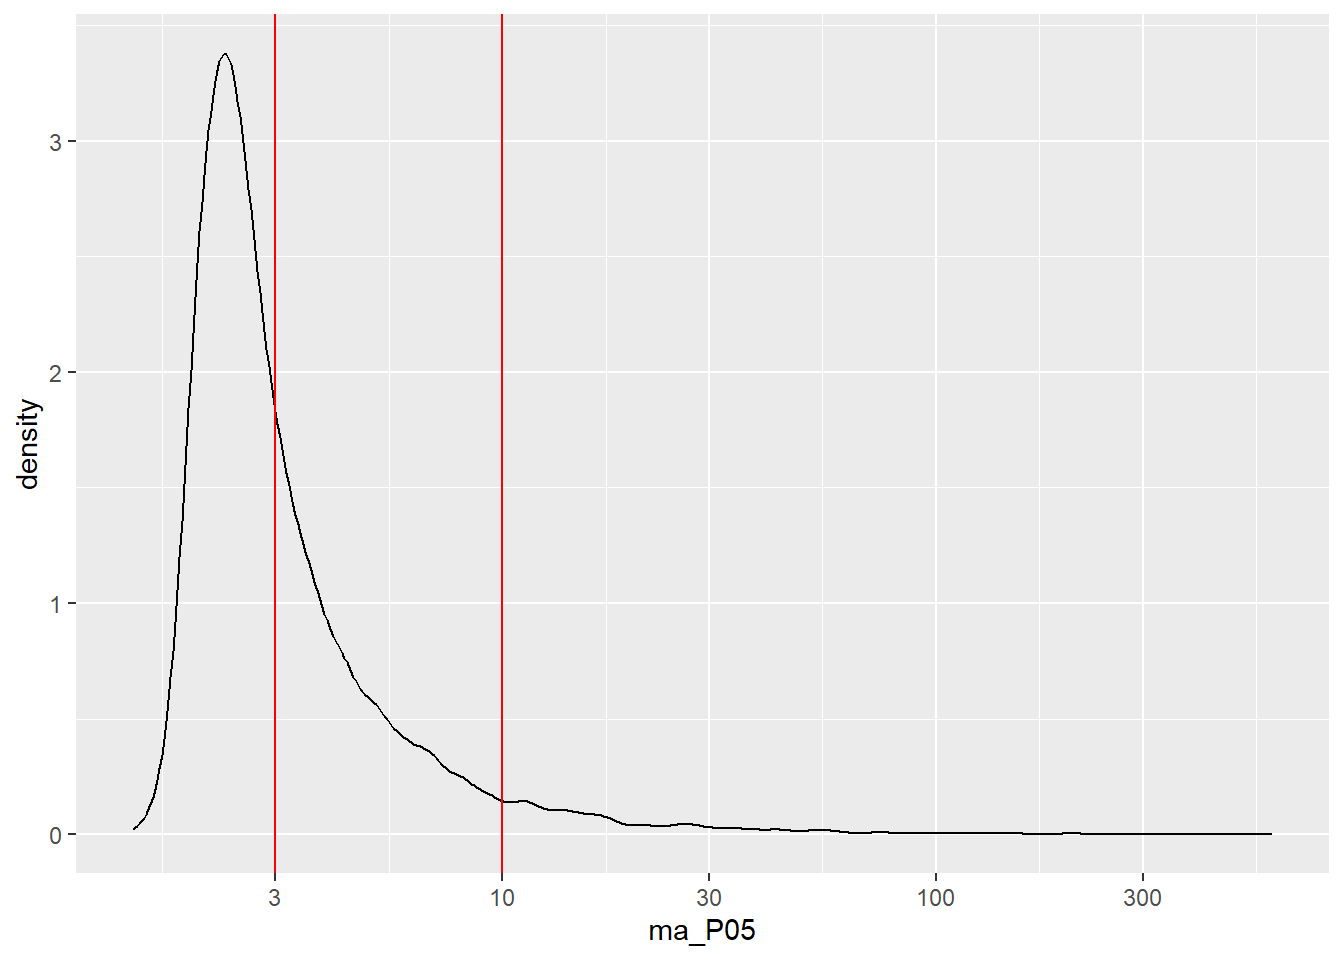
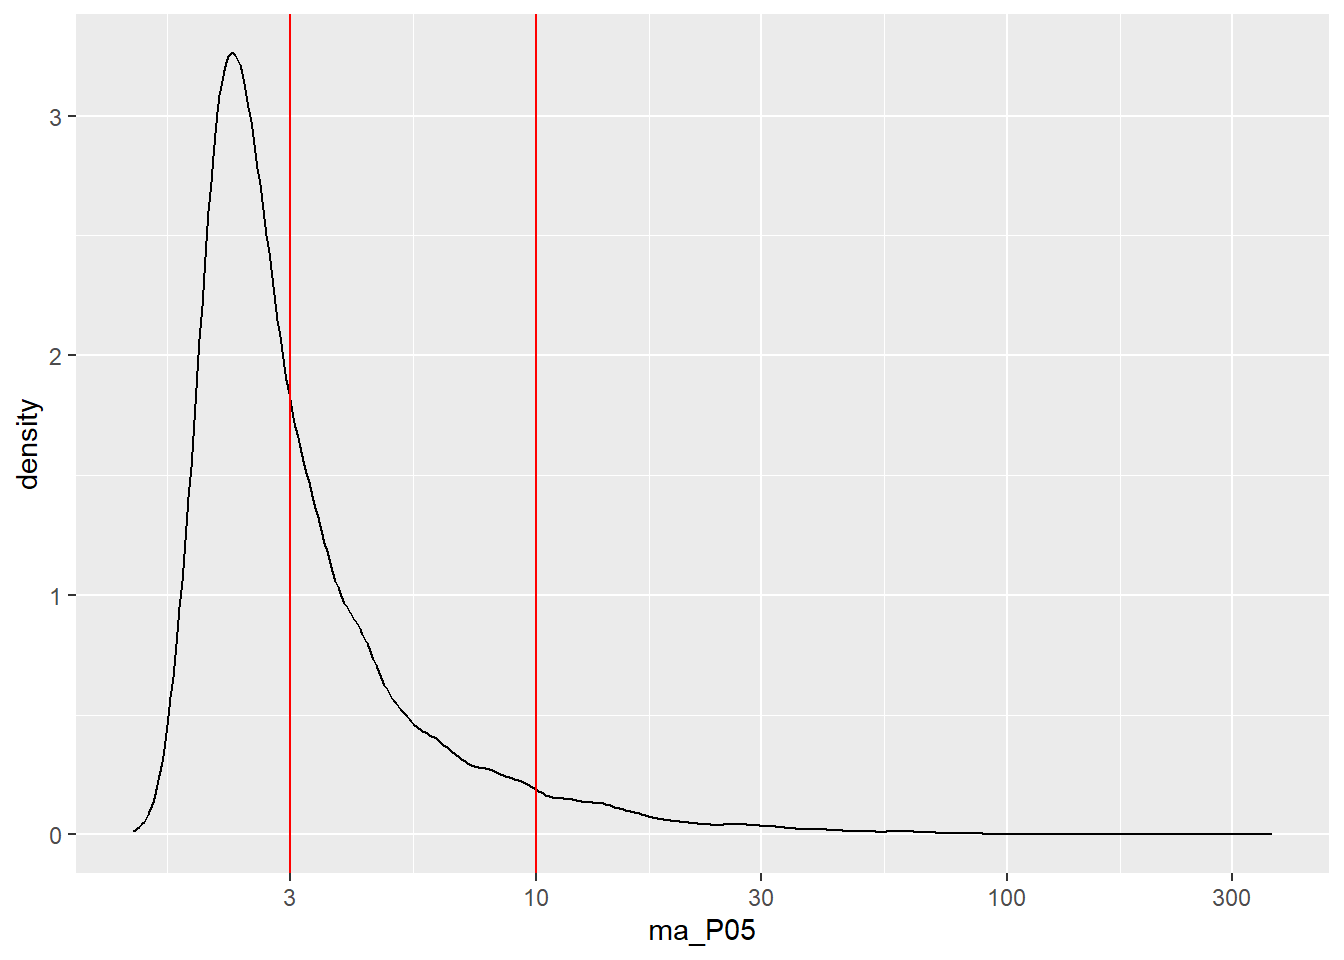
revised assessment question

diff --git a/docs/pages/report_template.html b/docs/pages/report_template.html
@@ -7,7 +7,7 @@
 <meta name="viewport" content="width=device-width, initial-scale=1.0, user-scalable=yes">
 
 <meta name="author" content="your name">
-<meta name="dcterms.date" content="2023-10-17">
+<meta name="dcterms.date" content="2023-10-18">
 
 <title>MVEN10-lectures - Report template</title>
 <style>
@@ -204,7 +204,7 @@ ul.task-list li input[type="checkbox"] {
     <div>
     <div class="quarto-title-meta-heading">Published</div>
     <div class="quarto-title-meta-contents">
-      <p class="date">October 17, 2023</p>
+      <p class="date">October 18, 2023</p>
     </div>
   </div>
   
@@ -223,7 +223,7 @@ ul.task-list li input[type="checkbox"] {
 <section id="introduction" class="level2">
 <h2 class="anchored" data-anchor-id="introduction">Introduction</h2>
 <p>Describe the context and background of the original assessment and the assessment questions.</p>
-<p>Add a section why this is a relevant topic today and introduce the additional assessment question presented in the “At the end”-paragraphs for each project.</p>
+<p>Add a section why this is a relevant topic today and introduce the additional <del>assessment question</del> <strong>task</strong> presented in the “At the end”-paragraphs for each project.</p>
 </section>
 <section id="data-and-methodology" class="level2">
 <h2 class="anchored" data-anchor-id="data-and-methodology">Data and methodology</h2>

diff --git a/docs/pages/Course introduction.html b/docs/pages/Course introduction.html
@@ -375,7 +375,7 @@ Ullrika Sahlin
 <li>10 lectures</li>
 <li>Occupational and Health Medicine</li>
 <li>Centre for Environmental and Climate Science</li>
-<li>Risk, Uncertainty and Decision Making (parallell course)</li>
+<li>Risk, Uncertainty and Decision Making (parallel course)</li>
 </ul>
 </section>
 <section id="exercises" class="slide level2">
@@ -403,7 +403,7 @@ Ullrika Sahlin
 <ul>
 <li>2 seminars</li>
 <li><ul>
-<li>1 within an exercise</li>
+<li>1 within an exercise (cancelled)</li>
 </ul></li>
 <li>Come prepared!</li>
 </ul>
@@ -411,7 +411,7 @@ Ullrika Sahlin
 <section id="book-seminars" class="slide level2">
 <h2>Book seminars</h2>
 <ul>
-<li>5 book seminars (overview canvas)</li>
+<li>5 book seminars (overview canvas) (one was cancelled)</li>
 <li>Presenter, Opponent, Reviewer with different roles</li>
 </ul>
 </section>

diff --git a/docs/pages/kernelmodels.html b/docs/pages/kernelmodels.html
@@ -313,7 +313,7 @@ pre > code.sourceCode > span > a:first-child::before { text-decoration: underlin
 <div class="sourceCode cell-code" id="cb8"><pre class="sourceCode r code-with-copy"><code class="sourceCode r"><span id="cb8-1"><a href="#cb8-1" aria-hidden="true" tabindex="-1"></a><span class="fu">quantile</span>(output<span class="sc">$</span>ma_P05,<span class="at">probs=</span><span class="fl">0.95</span>)</span></code><button title="Copy to Clipboard" class="code-copy-button"><i class="bi"></i></button></pre></div>
 <div class="cell-output cell-output-stdout">
 <pre><code>     95% 
-9.495713 </code></pre>
+10.13185 </code></pre>
 </div>
 </div>
 <div class="cell">

diff --git a/docs/pages/individual_projects.html b/docs/pages/individual_projects.html
@@ -7,7 +7,7 @@
 <meta name="viewport" content="width=device-width, initial-scale=1.0, user-scalable=yes">
 
 <meta name="author" content="Ullrika Sahlin">
-<meta name="dcterms.date" content="2023-10-17">
+<meta name="dcterms.date" content="2023-10-18">
 
 <title>MVEN10-lectures - Introduction to individual projects</title>
 <style>
@@ -189,7 +189,7 @@ ul.task-list li input[type="checkbox"] {
     <div>
     <div class="quarto-title-meta-heading">Published</div>
     <div class="quarto-title-meta-contents">
-      <p class="date">October 17, 2023</p>
+      <p class="date">October 18, 2023</p>
     </div>
   </div>
   

diff --git a/docs/pages/course_overview.html b/docs/pages/course_overview.html
@@ -7,7 +7,7 @@
 <meta name="viewport" content="width=device-width, initial-scale=1.0, user-scalable=yes">
 
 <meta name="author" content="Ullrika Sahlin">
-<meta name="dcterms.date" content="2023-10-17">
+<meta name="dcterms.date" content="2023-10-18">
 
 <title>MVEN10-lectures - Course content</title>
 <style>
@@ -204,7 +204,7 @@ ul.task-list li input[type="checkbox"] {
     <div>
     <div class="quarto-title-meta-heading">Published</div>
     <div class="quarto-title-meta-contents">
-      <p class="date">October 17, 2023</p>
+      <p class="date">October 18, 2023</p>
     </div>
   </div>
   

diff --git a/docs/index.html b/docs/index.html
@@ -7,7 +7,7 @@
 <meta name="viewport" content="width=device-width, initial-scale=1.0, user-scalable=yes">
 
 <meta name="author" content="Ullrika">
-<meta name="dcterms.date" content="2023-10-17">
+<meta name="dcterms.date" content="2023-10-18">
 
 <title>MVEN10-lectures - MVEN10 lectures</title>
 <style>
@@ -178,7 +178,7 @@ ul.task-list li input[type="checkbox"] {
     <div>
     <div class="quarto-title-meta-heading">Published</div>
     <div class="quarto-title-meta-contents">
-      <p class="date">October 17, 2023</p>
+      <p class="date">October 18, 2023</p>
     </div>
   </div>
   
